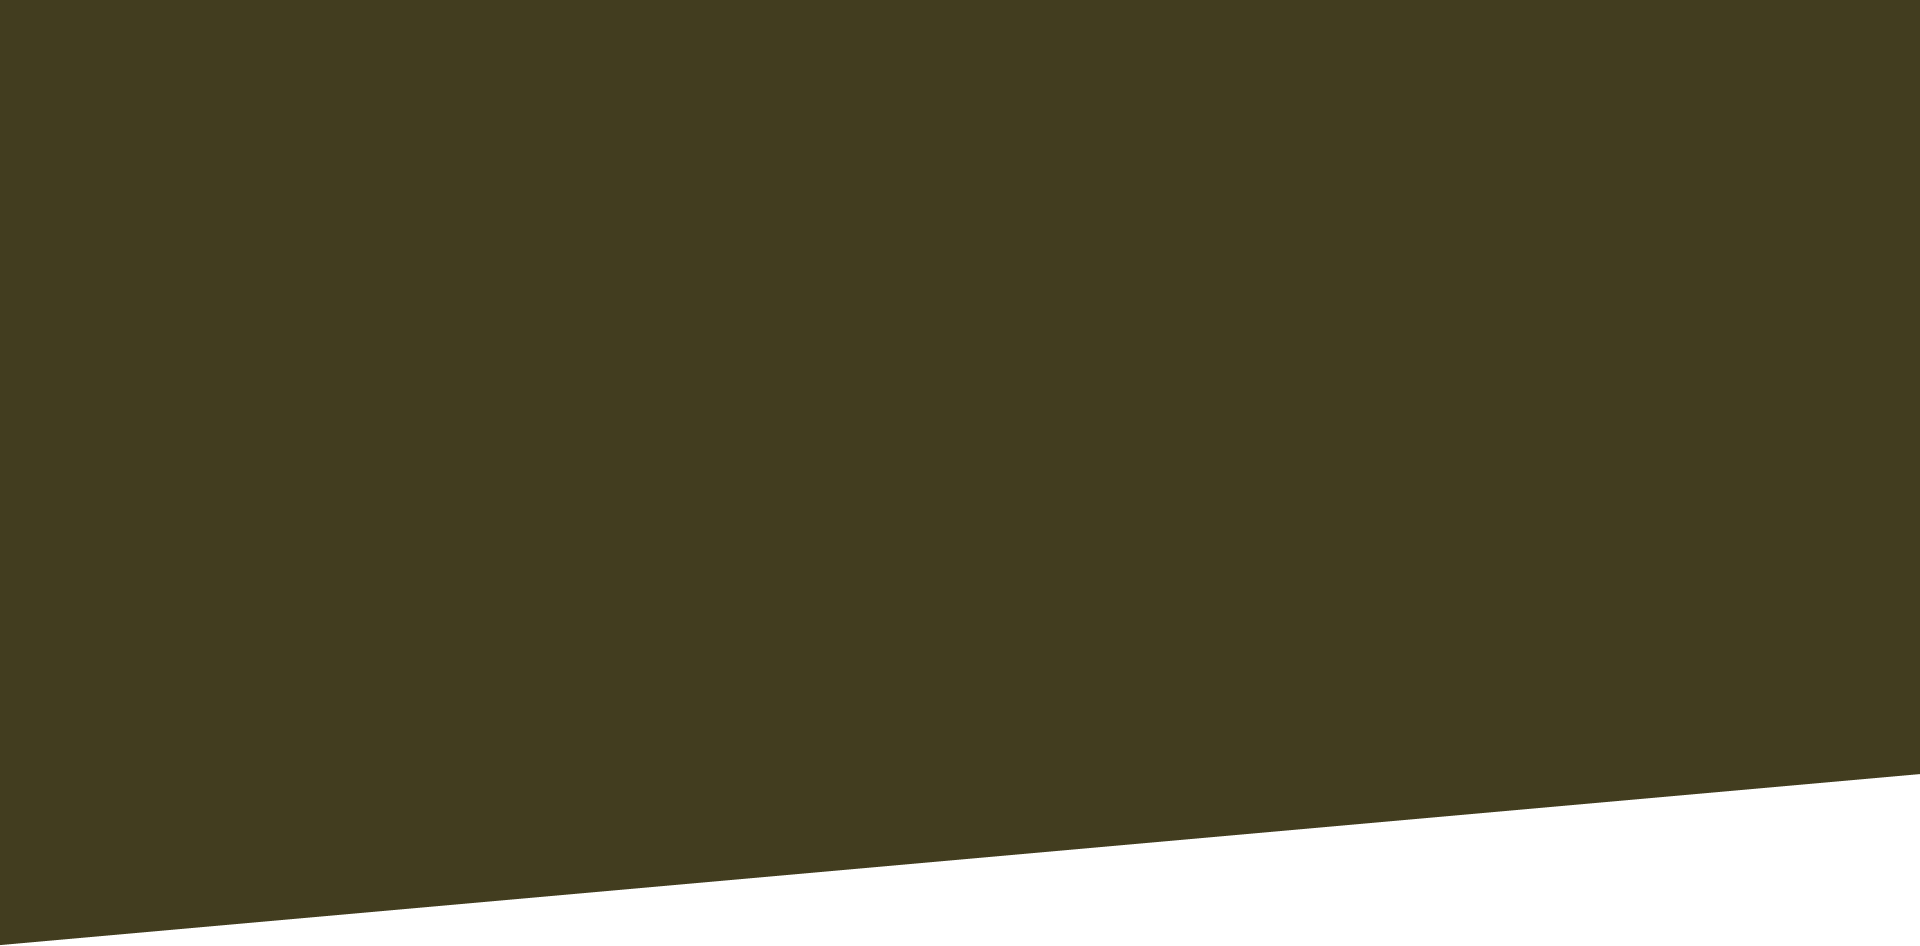
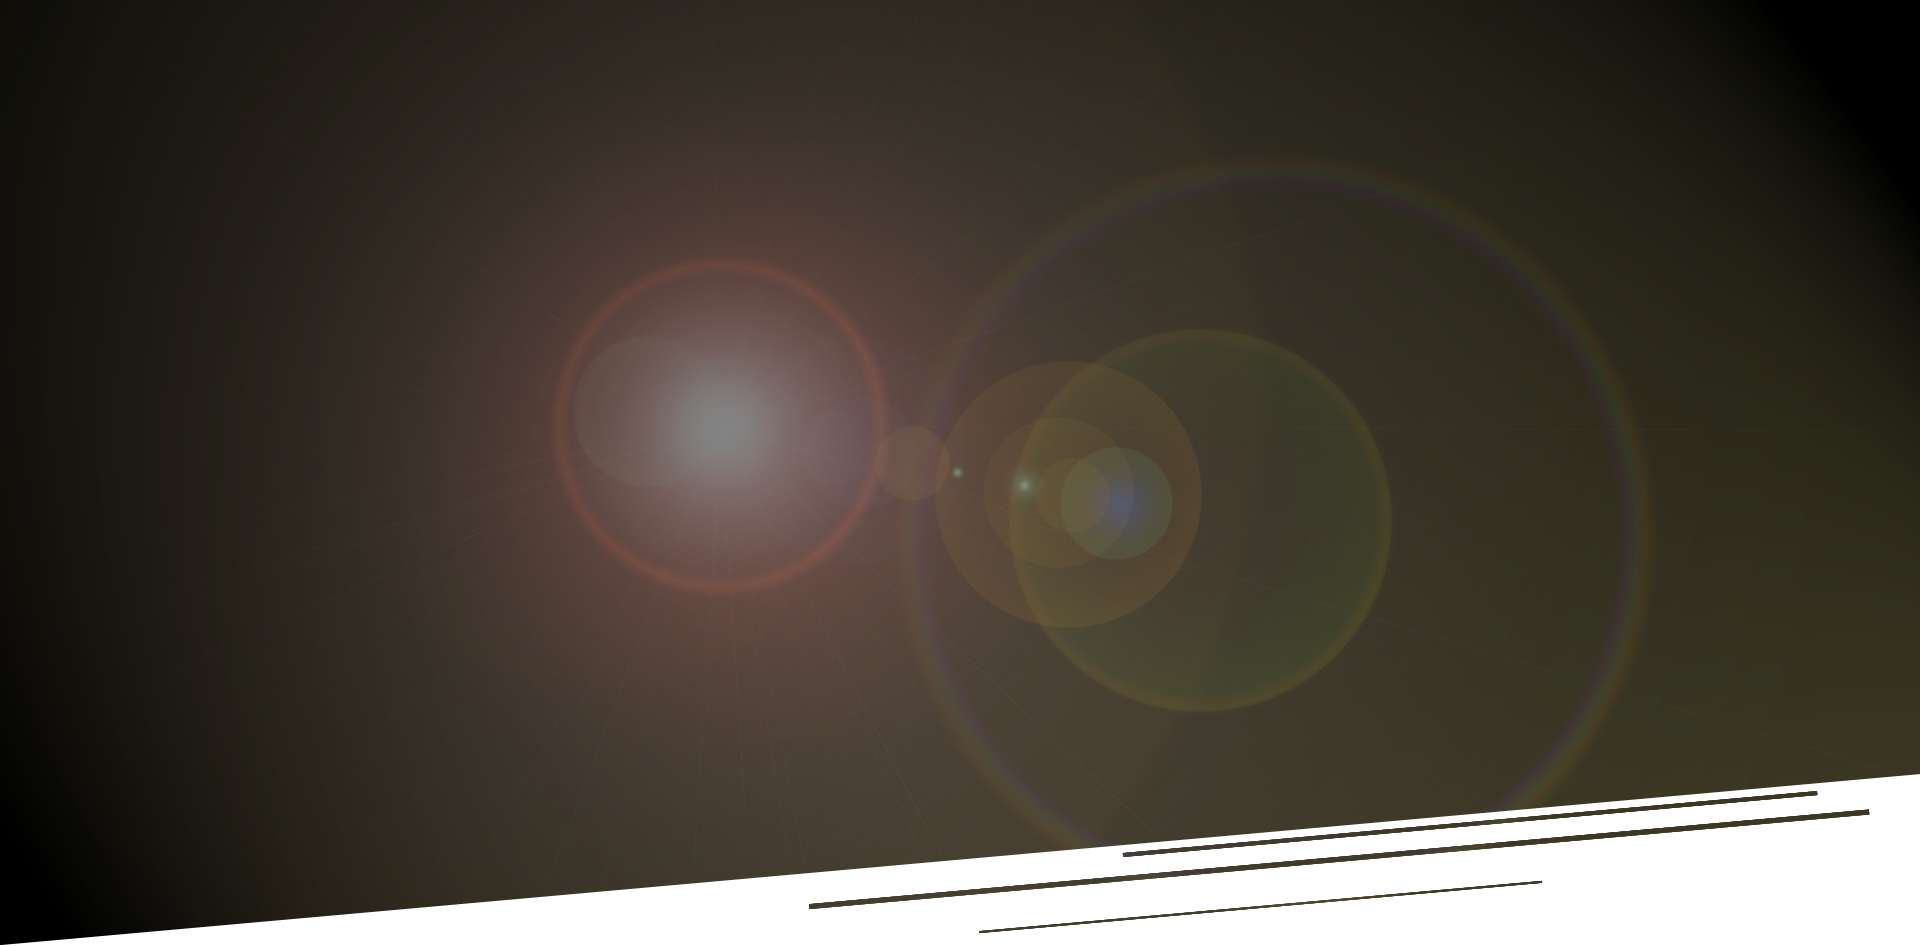
background image formatting

diff --git a/index.html b/index.html
@@ -38,83 +38,84 @@
 		
 </header>
 
-<section class="intro">
-	<br><br>
-	<div class="flex-intro">
-		<div >
-			<img class="intro-image" src="images/me.JPG">
+<main>
+	<section class="intro">
+		<br><br>
+		<div class="flex-intro">
+			<div >
+				<img class="intro-image" src="images/me.JPG">
+			</div>
+			<div class="intro-text">
+				<h2 style="color: lightgoldenrodyellow">The blend of the artistic and technological aspects of Computer Graphics has always fascinated me. With my technical background, I especially enjoy applying my acquired knowledge to add functionality to a program and then visually judging the end results – be it for data visualization, simulations, or just a nicely rendered image.</h2>
+			</div>
 		</div>
-		<div class="intro-text">
-			<h2 style="color: lightgoldenrodyellow">The blend of the artistic and technological aspects of Computer Graphics has always fascinated me. With my technical background, I especially enjoy applying my acquired knowledge to add functionality to a program and then visually judging the end results – be it for data visualization, simulations, or just a nicely rendered image.</h2>
-		</div>
-	</div>
-</section>
+	</section>
 
-<div >
-	<h2 style="text-align: center">... more to come!</h2>		
-</div>
-
-<section class="flex-content">
-	<div class="content-entry">
-		<a href="https://www.autoform.com/en/" target="_blank">
-			<div>
-				<img class="content-image" src="images/autoform.png">
-			</div>
-			<div class="content-text">
-				<h2 class="content-title">3D Graphics Team at AutoForm</h2>
-				<h3>Software Solutions for Sheet Metal Forming and BiW Assembly</h3>
-				<p>AutoForm’s software solutions form a comprehensive platform for the engineering, evaluation and improvement of the sheet metal forming and BiW assembly processes. This platform allows for full digitalization, seamless information and data flow, and integration of Industry 4.0 standards.</p>
-			</div>
-		</a>
+	<div >
+		<h2 style="text-align: center">... more to come!</h2>		
 	</div>
 
-	<div class="content-entry">
-		<a href="https://buggygames.ch/" target="_blank">
-			<div>
-				<img class="content-image" src="images/buggygames.png">
-			</div>
-			<div class="content-text">
-				<h2 class="content-title">Co-developer of Cowboy Mills</h2>
-				<h3>Nine Men's Morris Mobile Game</h3>
-				<p>Play the beloved board game of Mills, also known as Nine Men's Morris or Cowboy Checkers, with fancy 3D visuals. Create triplets and reduce your opponent's figure count to win the match. You can play against a friend or against a computer opponent. Do you think you measure up? Take the challenge, but as cowboys say: "Don't go in, if you don't know the way out!"</p>
-			</div>
-		</a>
-	</div>
-
-	<div class="content-entry">
-		<a href="https://patents.google.com/patent/US20160323556A1/en" target="_blank">
-			<div>
-				<img class="content-image" src="images/patent.png">
-			</div>
-			<div class="content-text">
-				<h2 class="content-title">Patent Application Publication. Disney Enterprises, Inc., ETH Zurich </h2>
-				<h3>Perceptual color transformations for wide color gamut video coding</h3>
-				<p>A video coding pipeline is provided that can accommodate high dynamic range (HDR) and wide color gamut (WCG) content at a fixed bitrate. The video coding pipeline relies on separate chromaticity and luminance-specific transforms in order to process image content. Image content may be converted into a nearly perceptually uniform color space for coding in constant luminance. Moreover, chromaticity transforms are utilized which reduce coding errors in the chroma components (at the fixed bitrate) by enlarging the distribution of code words for compression.</p>
-			</div>
-		</a>
-	</div>
-</section>
-
-
-<footer>
-	<div class="flex-footer">
-		<div>
-			<a href="https://linkedin.com/in/daniel-luginb%C3%BChl-a20257138" target="_blank">
-				<img src="images/linkedin-logo.svg" alt="Linked In" class="social-image">
+	<section class="flex-content">
+		<div class="content-entry">
+			<a href="https://www.autoform.com/en/" target="_blank">
+				<div>
+					<img class="content-image" src="images/autoform.png">
+				</div>
+				<div class="content-text">
+					<h2 class="content-title">3D Graphics Team at AutoForm</h2>
+					<h3>Software Solutions for Sheet Metal Forming and BiW Assembly</h3>
+					<p>AutoForm’s software solutions form a comprehensive platform for the engineering, evaluation and improvement of the sheet metal forming and BiW assembly processes. This platform allows for full digitalization, seamless information and data flow, and integration of Industry 4.0 standards.</p>
+				</div>
 			</a>
 		</div>
-		<div>
-			<a href="https://www.facebook.com/profile.php?id=61557169541826" target="_blank">
-				<img src="images/facebook-logo.svg" alt="Facebook" class="social-image">
+
+		<div class="content-entry">
+			<a href="https://buggygames.ch/" target="_blank">
+				<div>
+					<img class="content-image" src="images/buggygames.png">
+				</div>
+				<div class="content-text">
+					<h2 class="content-title">Co-developer of Cowboy Mills</h2>
+					<h3>Nine Men's Morris Mobile Game</h3>
+					<p>Play the beloved board game of Mills, also known as Nine Men's Morris or Cowboy Checkers, with fancy 3D visuals. Create triplets and reduce your opponent's figure count to win the match. You can play against a friend or against a computer opponent. Do you think you measure up? Take the challenge, but as cowboys say: "Don't go in, if you don't know the way out!"</p>
+				</div>
 			</a>
 		</div>
-		<div>
-			<a href="https://www.instagram.com/daniel.james1990" target="_blank">
-				<img src="images/instagram-logo.svg" alt="Instagram" class="social-image">
+
+		<div class="content-entry">
+			<a href="https://patents.google.com/patent/US20160323556A1/en" target="_blank">
+				<div>
+					<img class="content-image" src="images/patent.png">
+				</div>
+				<div class="content-text">
+					<h2 class="content-title">Patent Application Publication. Disney Enterprises, Inc., ETH Zurich </h2>
+					<h3>Perceptual color transformations for wide color gamut video coding</h3>
+					<p>A video coding pipeline is provided that can accommodate high dynamic range (HDR) and wide color gamut (WCG) content at a fixed bitrate. The video coding pipeline relies on separate chromaticity and luminance-specific transforms in order to process image content. Image content may be converted into a nearly perceptually uniform color space for coding in constant luminance. Moreover, chromaticity transforms are utilized which reduce coding errors in the chroma components (at the fixed bitrate) by enlarging the distribution of code words for compression.</p>
+				</div>
 			</a>
 		</div>
-	</div>
-</footer>
+	</section>
+
+	<footer>
+		<div class="flex-footer">
+			<div>
+				<a href="https://linkedin.com/in/daniel-luginb%C3%BChl-a20257138" target="_blank">
+					<img src="images/linkedin-logo.svg" alt="Linked In" class="social-image">
+				</a>
+			</div>
+			<div>
+				<a href="https://www.facebook.com/profile.php?id=61557169541826" target="_blank">
+					<img src="images/facebook-logo.svg" alt="Facebook" class="social-image">
+				</a>
+			</div>
+			<div>
+				<a href="https://www.instagram.com/daniel.james1990" target="_blank">
+					<img src="images/instagram-logo.svg" alt="Instagram" class="social-image">
+				</a>
+			</div>
+		</div>
+	</footer>
+</main>
 
 	
 </body>

diff --git a/styles/style.css b/styles/style.css
@@ -1,6 +1,7 @@
 :root {
-  --backgroundgray: #363636;
-  --bodybackgroundgray: #212121;
+  --elementbackground: #363636;
+  --mainbackground: #212121;
+  --bodybackground: black;
   --linkhovercolor: lightgoldenrodyellow;
   --linkactivecolor: blue;
 }
@@ -15,7 +16,7 @@ body {
   width: 100vw;
   margin: 0px;
   padding: 0px;
-  background-color: var(--bodybackgroundgray);  
+  background-color: var(--bodybackground);  
 }
 
 h1, h2, h3, h4, h5, p, a {
@@ -37,6 +38,13 @@ a, a:visited, a:hover, a:active {
   color: var(--linkactivecolor);
  }
 
+main {
+  width: 1920px;
+  max-width: 100%;
+  margin: 0 auto;  
+  background-color: var(--mainbackground);
+  
+}
 
 header {  
   position: sticky;
@@ -46,7 +54,7 @@ header {
 }
 
 .header-content-area {  
-  background-color: var(--backgroundgray);
+  background-color: var(--elementbackground);
   box-shadow: 0px 0px 50px 10px black;
 }
 
@@ -66,7 +74,8 @@ header {
 .intro{
   background-image: url("../images/background.png");
   background-repeat: no-repeat;
-  background-size: 100% 100%;
+  //background-size: 100%;
+  background-position: bottom;
 }
 
 .flex-intro {
@@ -107,7 +116,7 @@ header {
 
 .content-entry {
   margin: 20px;
-  background-color: var(--backgroundgray);
+  background-color: var(--elementbackground);
   border-radius: 25px;
   width: 500px;
 }
